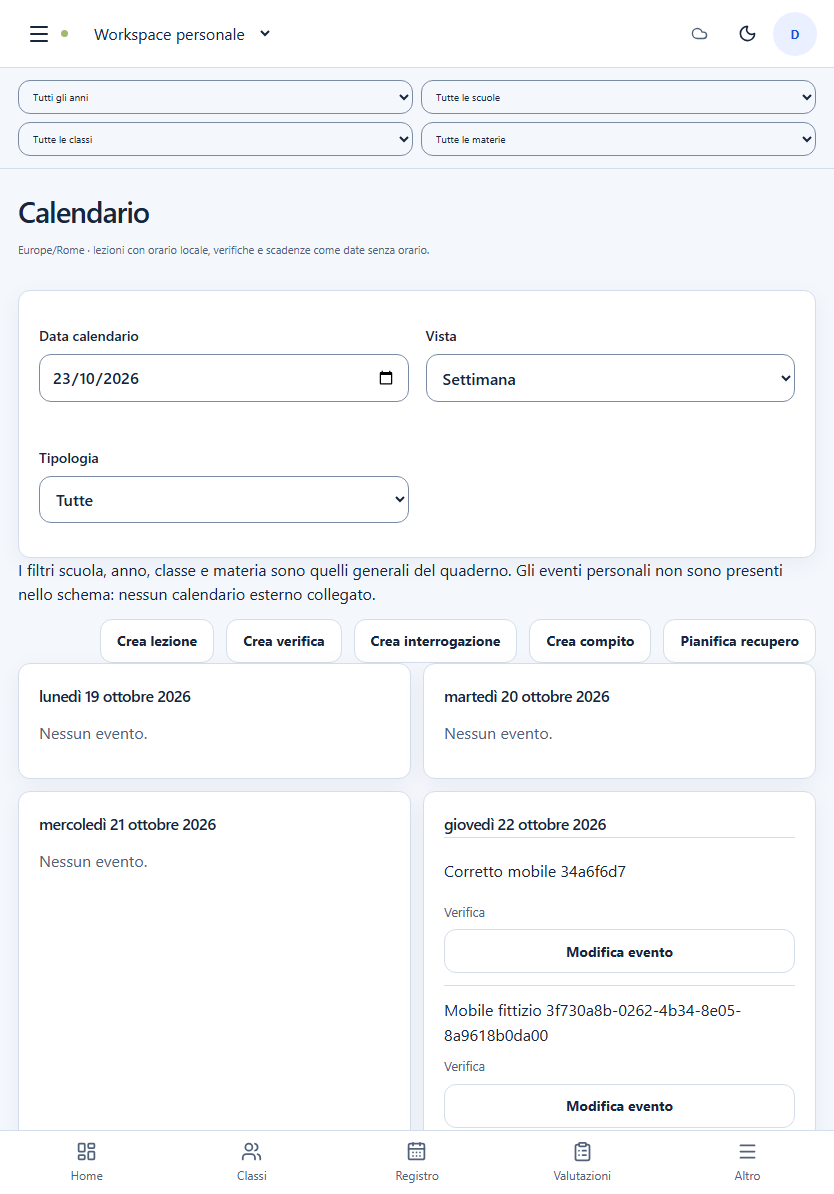
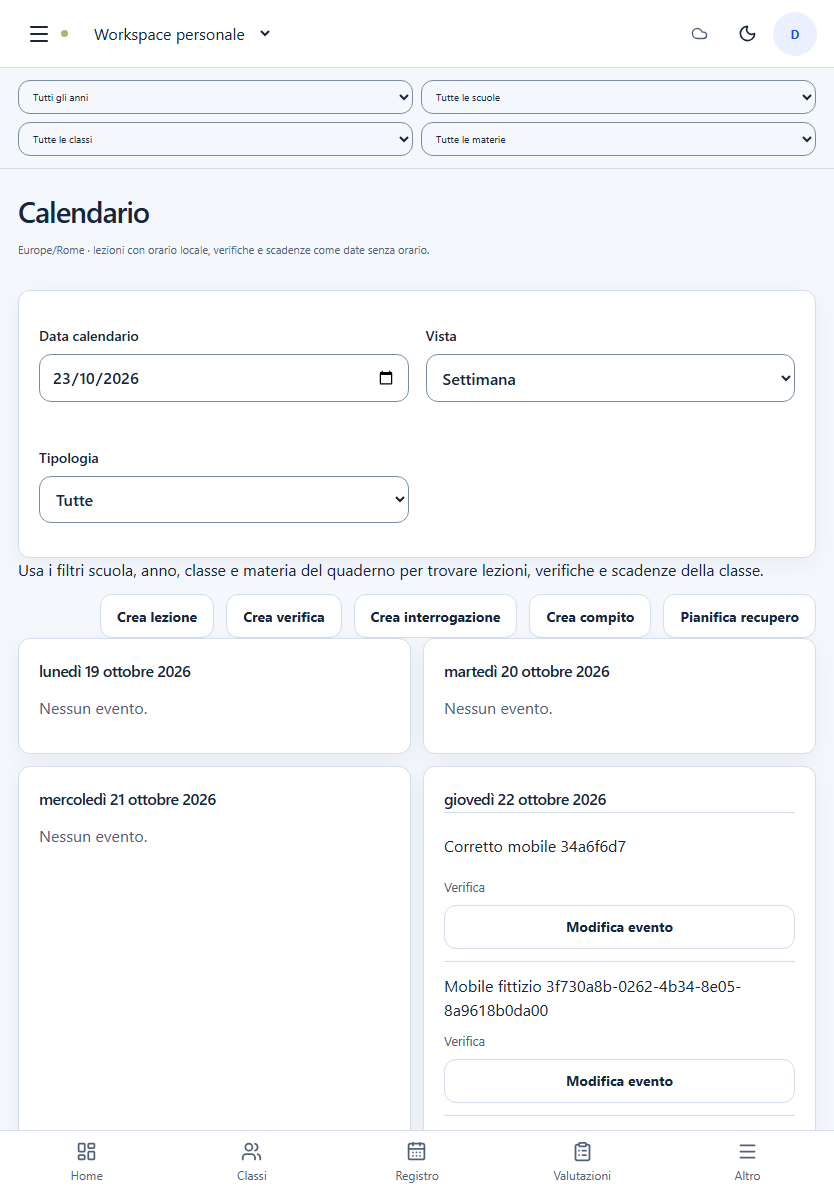
fix: clarify teacher-facing calendar and history labels

diff --git a/src/pages/OperationsHistory.tsx b/src/pages/OperationsHistory.tsx
@@ -4,6 +4,8 @@ import { useRows, useData } from "../state/data";
 import { useAuth } from "../state/auth";
 import { useCapabilities } from "../hooks/capabilities";
 import { changedFields } from "../domain/teaching";
+import { tr, catalog } from "../domain/catalog";
+import type { TableName } from "../types/model";
 import { text, type Row } from "../types/model";
 import { v12Rpc } from "../services/v12";
 import { PageTitle, ErrorBox } from "../components/ui";
@@ -98,7 +100,7 @@ export function OperationsHistory() {
               "Passaggio anno",
             ].map((v) => (
               <option key={v} value={v}>
-                {v}
+                {tr(v)}
               </option>
             ))}
           </select>
@@ -137,7 +139,7 @@ export function OperationsHistory() {
               : undefined;
         return (
           <article className="card operation-history" key={r.source + r.id}>
-            <h2>{r.kind}</h2>
+            <h2>{tr(r.kind)}</h2>
             <p>
               {new Date(text(r, "created_at")).toLocaleString("it-IT")} ·
               Autore:{" "}
@@ -153,7 +155,11 @@ export function OperationsHistory() {
               <dl>
                 {changedFields(old, next).map((k) => (
                   <div key={k}>
-                    <dt>{k}</dt>
+                    <dt>
+                      {catalog[r.kind as TableName]?.fields.find(
+                        (f) => f.name === k,
+                      )?.label ?? k}
+                    </dt>
                     <dd>
                       {JSON.stringify(old?.[k] ?? null)} →{" "}
                       {JSON.stringify(next[k])}

diff --git a/src/pages/StudentProfile.tsx b/src/pages/StudentProfile.tsx
@@ -4,7 +4,7 @@ import { useData, useRows } from "../state/data";
 import { useCapabilities } from "../hooks/capabilities";
 import { GridEvidence } from "../components/GridEvidence";
 import { PageTitle, Spinner } from "../components/ui";
-import { label } from "../domain/catalog";
+import { label, tr } from "../domain/catalog";
 import { text } from "../types/model";
 import { assessmentProgress } from "../domain/teaching";
 import { ExportMenu } from "../components/ExportMenu";
@@ -128,10 +128,12 @@ export function StudentProfile() {
             <p key={a.id}>
               <Link to={"/verifiche/" + a.id}>{text(a, "title")}</Link> ·{" "}
               {text(a, "assessed_on")} ·{" "}
-              {assessmentProgress(
-                a,
-                scoped.find((e) => e.class_id === a.class_id)!,
-                data,
+              {tr(
+                assessmentProgress(
+                  a,
+                  scoped.find((e) => e.class_id === a.class_id)!,
+                  data,
+                ),
               )}
             </p>
           ))}

diff --git a/src/domain/catalog.ts b/src/domain/catalog.ts
@@ -510,6 +510,15 @@ export const catalog: Partial<Record<TableName, Entity>> = {
   },
 };
 export const translations: Record<string, string> = {
+  students: "Anagrafiche studenti",
+  enrollments: "Iscrizioni",
+  planned: "Pianificato",
+  in_progress: "In corso",
+  completed: "Completato",
+  unchecked: "Non controllato",
+  uncorrected: "Non ancora corretta",
+  incomplete: "Incompleta",
+  absent: "Assente",
   draft: "Bozza",
   confirmed: "Confermata",
   cancelled: "Annullato",

diff --git a/src/pages/Calendar.tsx b/src/pages/Calendar.tsx
@@ -94,9 +94,8 @@ export function Calendar() {
         </label>
       </div>
       <p>
-        I filtri scuola, anno, classe e materia sono quelli generali del
-        quaderno. Gli eventi personali non sono presenti nello schema: nessun
-        calendario esterno collegato.
+        Usa i filtri scuola, anno, classe e materia del quaderno per trovare
+        lezioni, verifiche e scadenze della classe.
       </p>
       <div className="form-actions">
         {[
